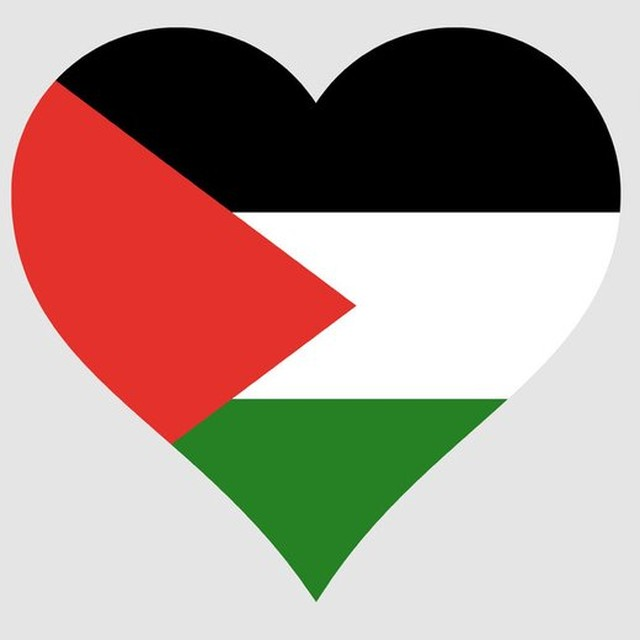
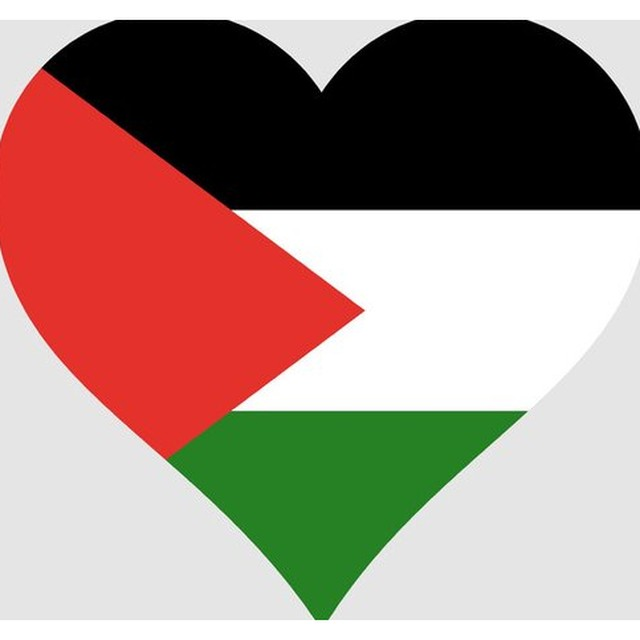
Fix heart-clip gray sliver, add scroll progress bar + card tilt
Heart fix: the source flag photo had a gray margin around the heart
graphic itself, so the CSS heart clip-path (drawn independently of the
photo) extended past the actual flag silhouette in places and revealed
that gray background. Re-cropped the source tight to the heart's real
bounding box and scaled the image 110% inside its container as a
safety margin, so the clip always lands on flag color, not background.

Site-wide dynamic-UI pass, requested after a review of the whole page:
- A thin accent-colored scroll-progress bar, fixed at the top, spring-
  smoothed — one more part of the page that visibly responds to
  scrolling instead of sitting still.
- Product cards now tilt slightly toward the cursor on desktop hover
  (subtle 3D perspective, pointer-fine only, respects reduced-motion) -
  the front/back crossfade wasn't the only thing that could move.

Also did a full manual scroll-through QA pass (not a fullPage
screenshot, which doesn't reliably trigger scroll-linked reveals) to
confirm every section renders correctly after all the recent changes -
Countdown, Products, SocialProof, Story, Purpose, and the closing CTA
all check out on desktop and mobile.

Claude-Session: https://claude.ai/code/session_016tt11Tqvaipcg8rjWqV7xD

diff --git a/src/components/ProductCard.tsx b/src/components/ProductCard.tsx
@@ -2,7 +2,7 @@
 
 import { useState } from "react";
 import Image from "next/image";
-import { motion } from "framer-motion";
+import { motion, useMotionValue, useSpring, useTransform } from "framer-motion";
 import type { Product, Size } from "@/lib/constants";
 import { SIZES } from "@/lib/constants";
 import { usePreorder } from "./PreorderContext";
@@ -22,6 +22,28 @@ export default function ProductCard({ product, index }: { product: Product; inde
   const [showSizeGuide, setShowSizeGuide] = useState(false);
   const [sizeError, setSizeError] = useState(false);
 
+  // A whisper of 3D tilt, desktop pointer only — the card leans slightly
+  // toward the cursor instead of sitting completely flat.
+  const tiltX = useMotionValue(0);
+  const tiltY = useMotionValue(0);
+  const springX = useSpring(tiltX, { stiffness: 250, damping: 25 });
+  const springY = useSpring(tiltY, { stiffness: 250, damping: 25 });
+  const rotateX = useTransform(springY, [-0.5, 0.5], [6, -6]);
+  const rotateY = useTransform(springX, [-0.5, 0.5], [-6, 6]);
+
+  function handleTiltMove(e: React.MouseEvent<HTMLDivElement>) {
+    if (!window.matchMedia("(hover: hover) and (pointer: fine)").matches) return;
+    if (window.matchMedia("(prefers-reduced-motion: reduce)").matches) return;
+    const rect = e.currentTarget.getBoundingClientRect();
+    tiltX.set((e.clientX - rect.left) / rect.width - 0.5);
+    tiltY.set((e.clientY - rect.top) / rect.height - 0.5);
+  }
+
+  function handleTiltLeave() {
+    tiltX.set(0);
+    tiltY.set(0);
+  }
+
   function handlePreorder() {
     if (!size) {
       setSizeError(true);
@@ -32,7 +54,12 @@ export default function ProductCard({ product, index }: { product: Product; inde
 
   return (
     <Reveal delay={index * 0.08} className="group">
-      <div className="relative aspect-[4/5] overflow-hidden bg-paper">
+      <motion.div
+        className="relative aspect-[4/5] overflow-hidden bg-paper"
+        style={{ rotateX, rotateY, transformPerspective: 800 }}
+        onMouseMove={handleTiltMove}
+        onMouseLeave={handleTiltLeave}
+      >
         {/* Lead with the back print — that's where the branding lives, and
             it's the more interesting shot. Front (plain) reveals on hover. */}
         <motion.div
@@ -66,7 +93,7 @@ export default function ProductCard({ product, index }: { product: Product; inde
         <span className="absolute left-3 top-3 bg-ink px-2 py-1 text-[0.55rem] font-bold uppercase tracking-[0.14em] text-paper sm:left-5 sm:top-5 sm:px-3 sm:py-1.5 sm:text-[0.62rem] sm:tracking-[0.16em]">
           {product.shortName === "Tee" ? "01" : "02"} — Limited
         </span>
-      </div>
+      </motion.div>
 
       <div className="mt-4 sm:mt-7">
         <h3 className="font-sans text-base font-black uppercase tracking-[-0.01em] text-paper sm:text-2xl md:text-3xl">

diff --git a/src/app/page.tsx b/src/app/page.tsx
@@ -8,6 +8,7 @@ import PreorderSection from "@/components/PreorderSection";
 import Footer from "@/components/Footer";
 import PreorderModal from "@/components/PreorderModal";
 import LoadingScreen from "@/components/LoadingScreen";
+import ScrollProgress from "@/components/ScrollProgress";
 import { PreorderProvider } from "@/components/PreorderContext";
 import SmoothScrollProvider from "@/components/SmoothScrollProvider";
 
@@ -16,6 +17,7 @@ export default function Home() {
     <PreorderProvider>
       <SmoothScrollProvider>
         <LoadingScreen />
+        <ScrollProgress />
         <a
           href="#collection"
           className="sr-only focus:not-sr-only focus:absolute focus:left-4 focus:top-4 focus:z-[300] focus:bg-paper focus:px-4 focus:py-2 focus:text-ink"

diff --git a/src/components/ScrollProgress.tsx b/src/components/ScrollProgress.tsx
@@ -1,0 +1,21 @@
+"use client";
+
+import { motion, useScroll, useSpring } from "framer-motion";
+
+/** A thin, fixed progress bar that fills as the visitor scrolls the
+ * page — a small, honest signal of "how much is left," and one more
+ * bit of the page that actually responds to scrolling instead of
+ * sitting still. Spring-smoothed so it doesn't feel like a raw
+ * percentage snapping around. */
+export default function ScrollProgress() {
+  const { scrollYProgress } = useScroll();
+  const scaleX = useSpring(scrollYProgress, { stiffness: 200, damping: 30, mass: 0.2 });
+
+  return (
+    <motion.div
+      className="fixed left-0 top-0 z-[200] h-[3px] w-full origin-left bg-accent"
+      style={{ scaleX }}
+      aria-hidden="true"
+    />
+  );
+}

diff --git a/src/components/Purpose.tsx b/src/components/Purpose.tsx
@@ -32,7 +32,7 @@ export default function Purpose() {
               src="/images/palestine-heart.jpg"
               alt="A heart in the colors of the Palestinian flag"
               fill
-              className="object-cover"
+              className="object-cover scale-110"
               sizes="176px"
             />
           </div>
